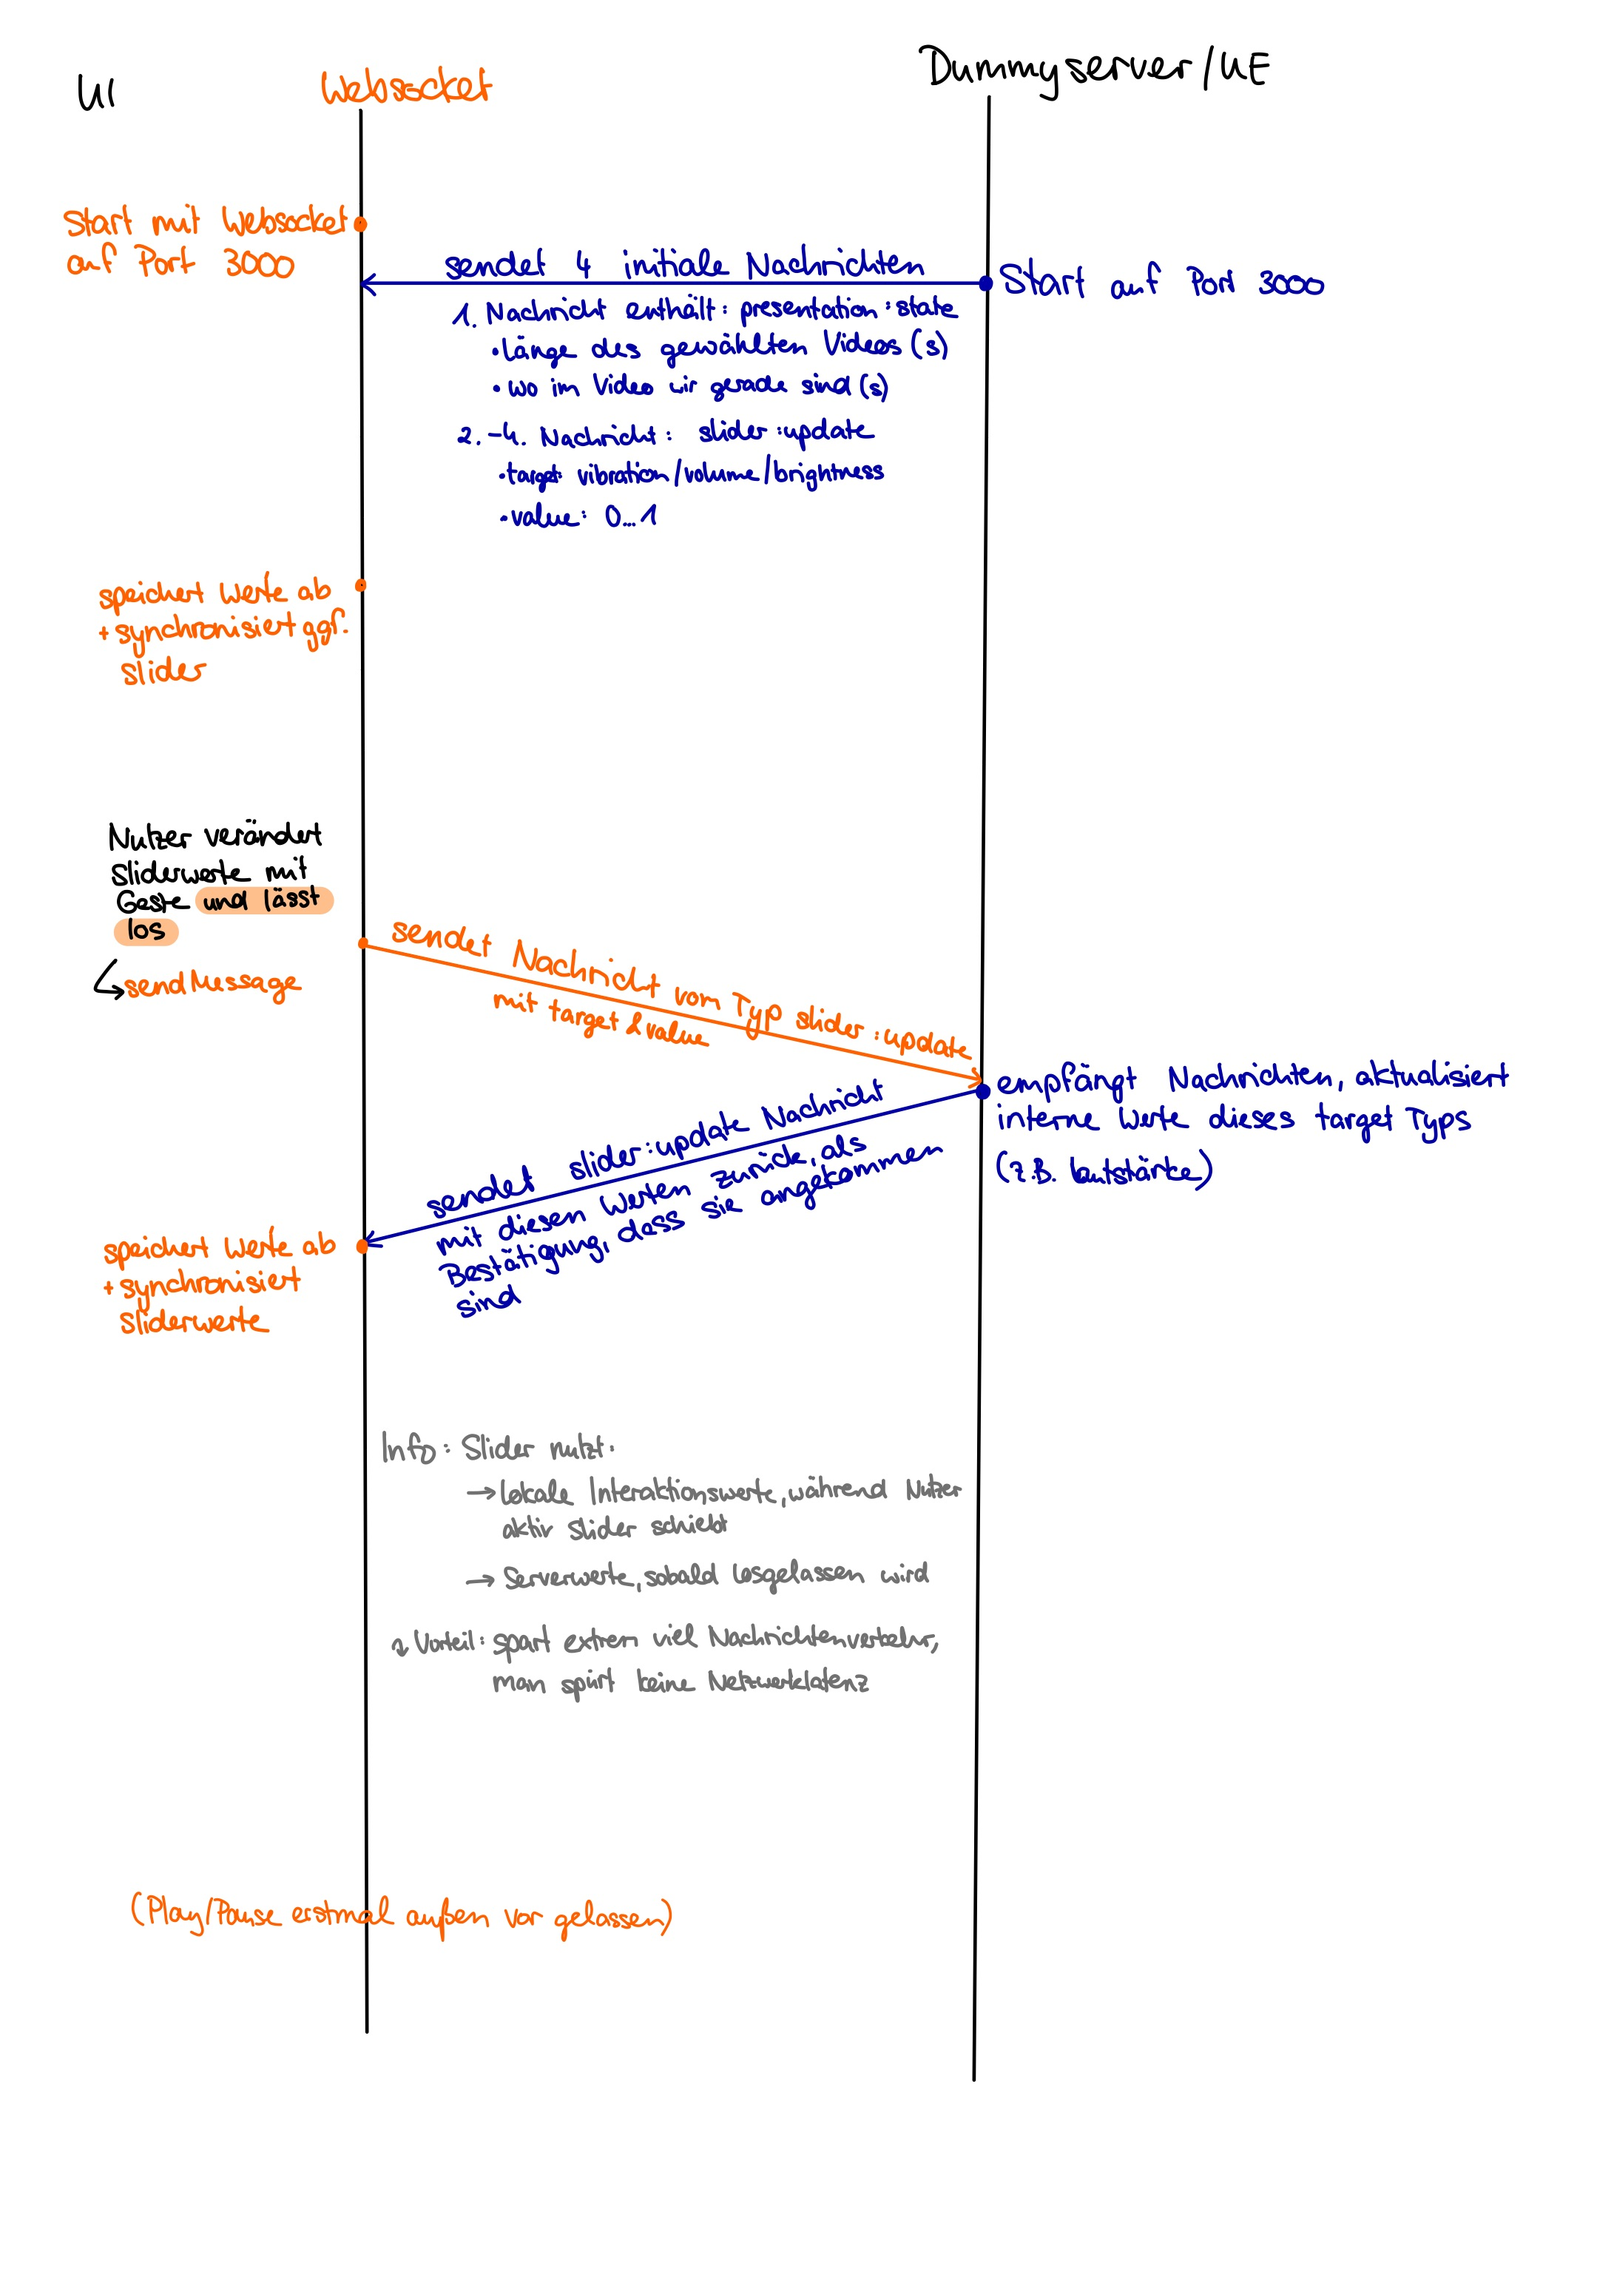
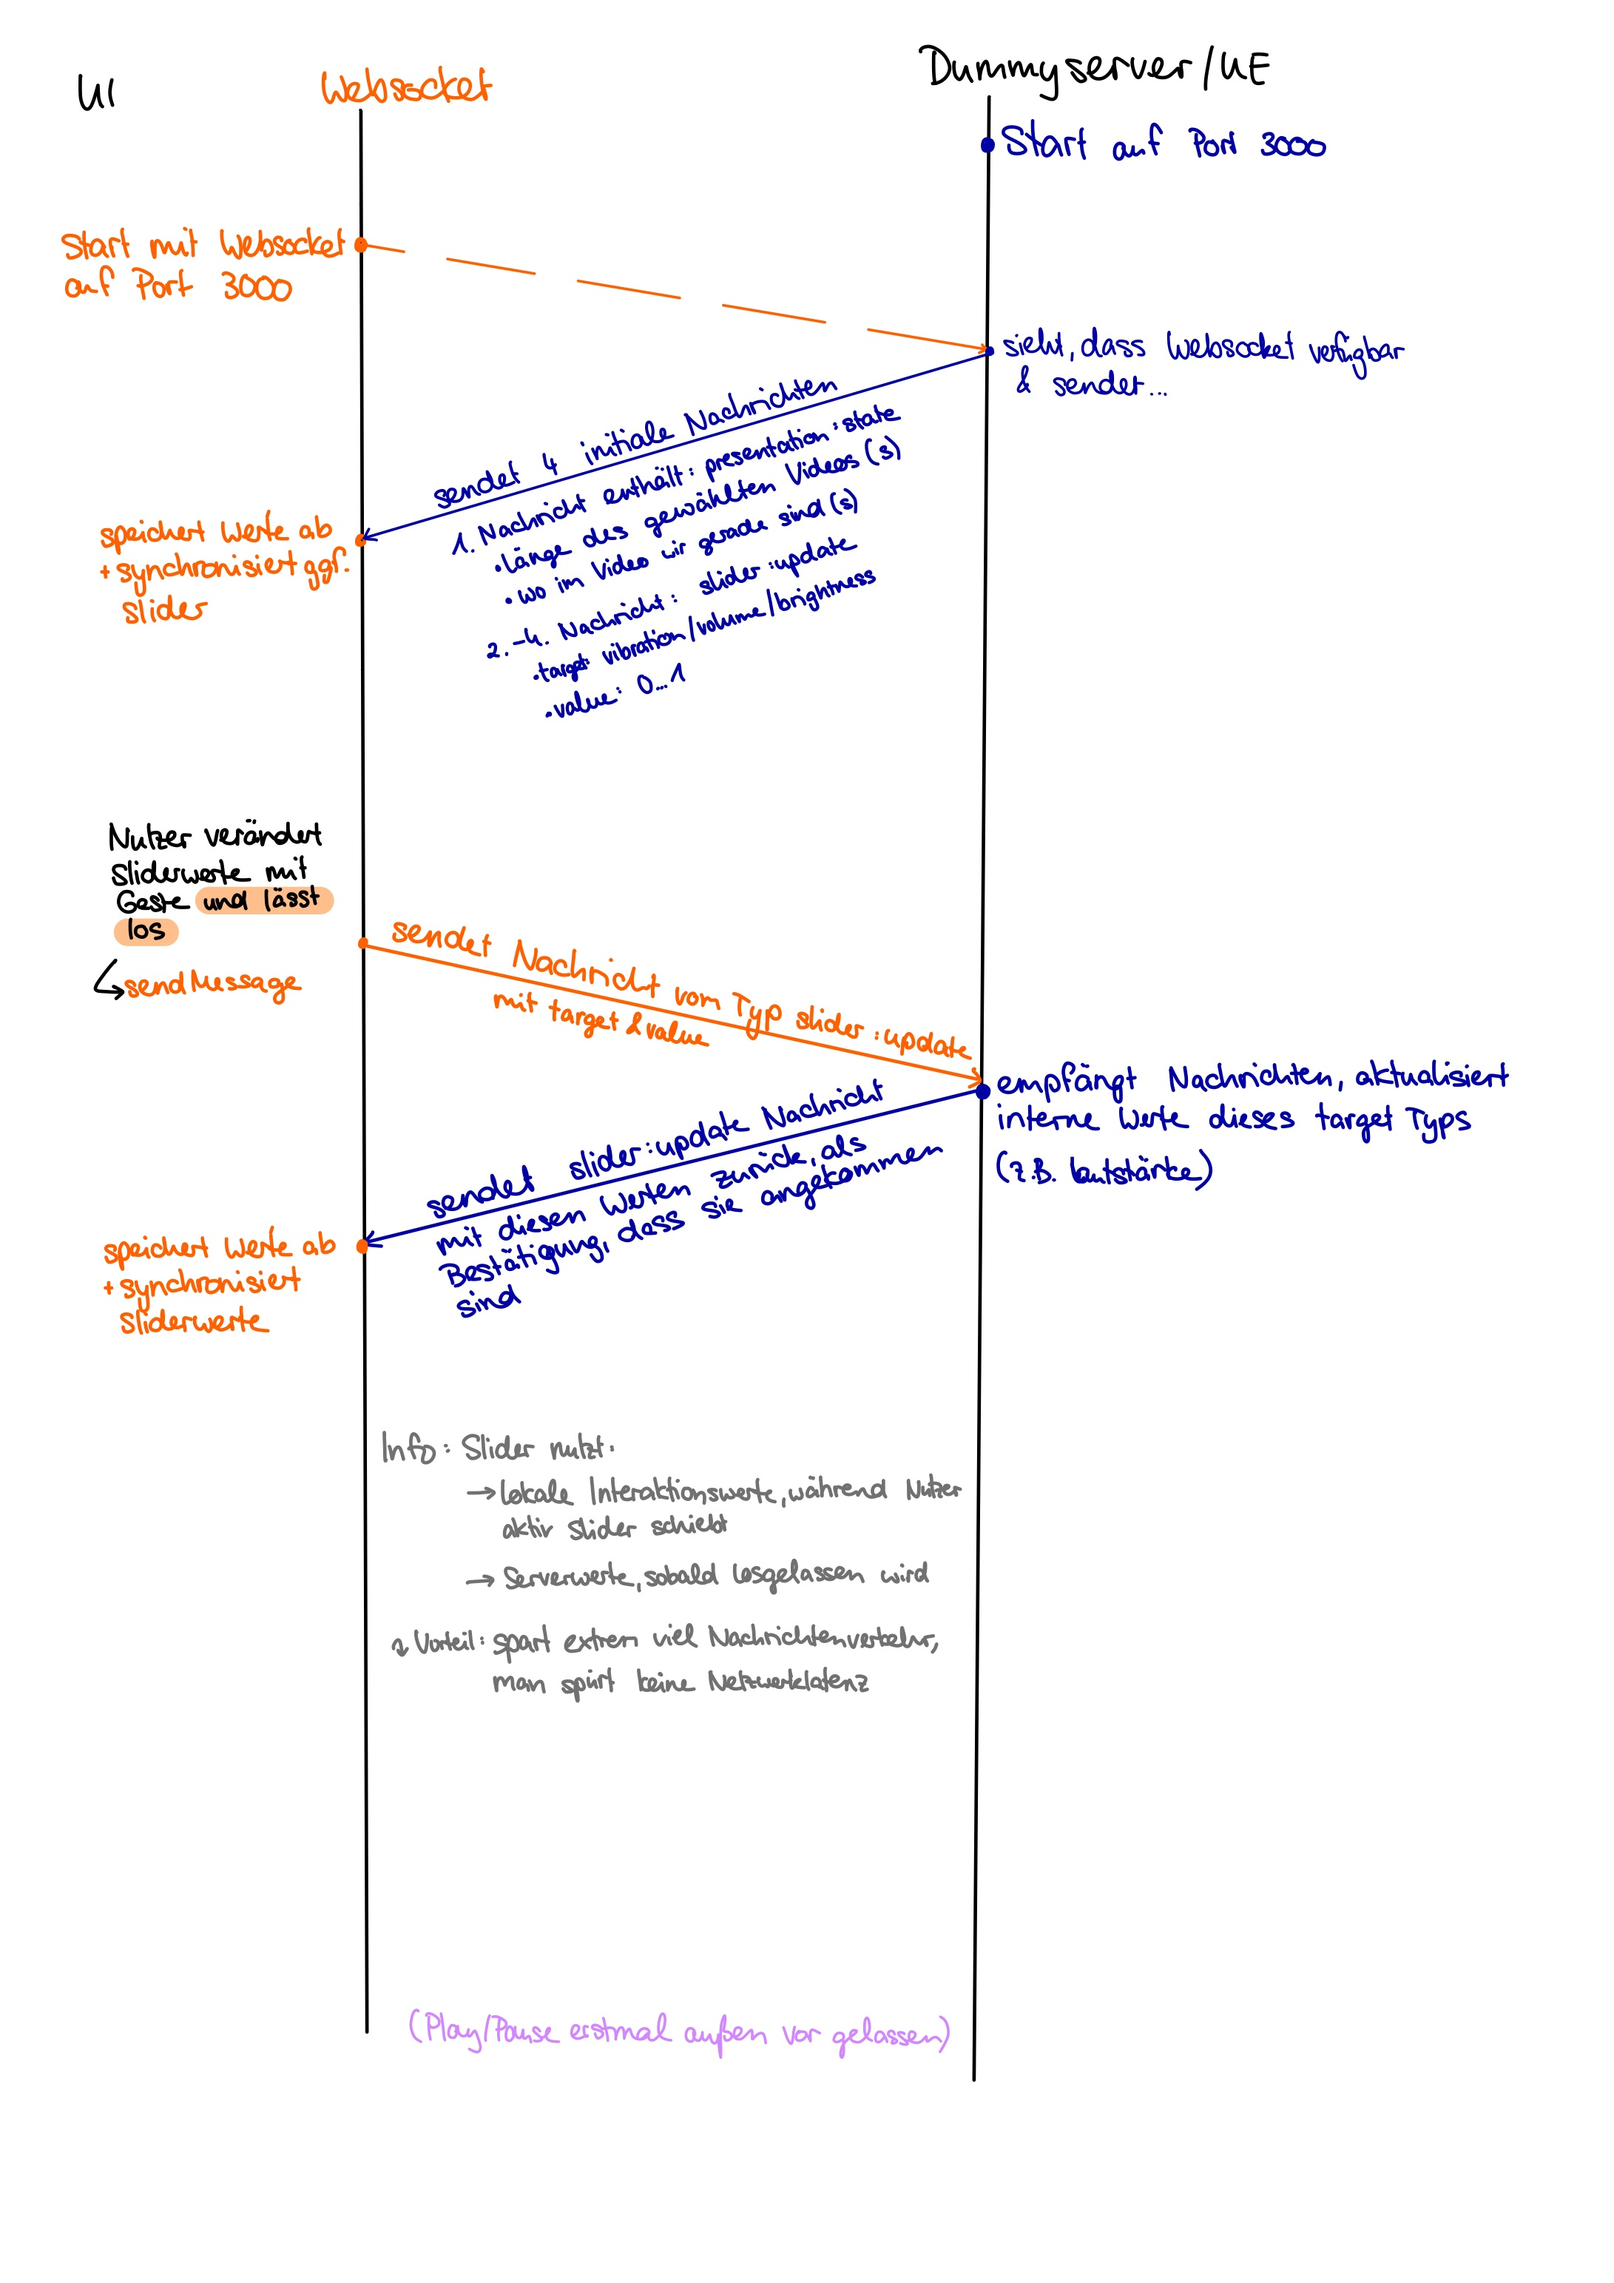
correct network diagram

diff --git a/electron-app/mock-unreal-server.js b/electron-app/mock-unreal-server.js
@@ -22,6 +22,9 @@ let uiState = {
     vibration: 0.1
 };
 
+/**
+ * This is called when a websocket joined port 3000.
+ */
 wss.on("connection", (ws) => {
     console.log("UI connected");
 
